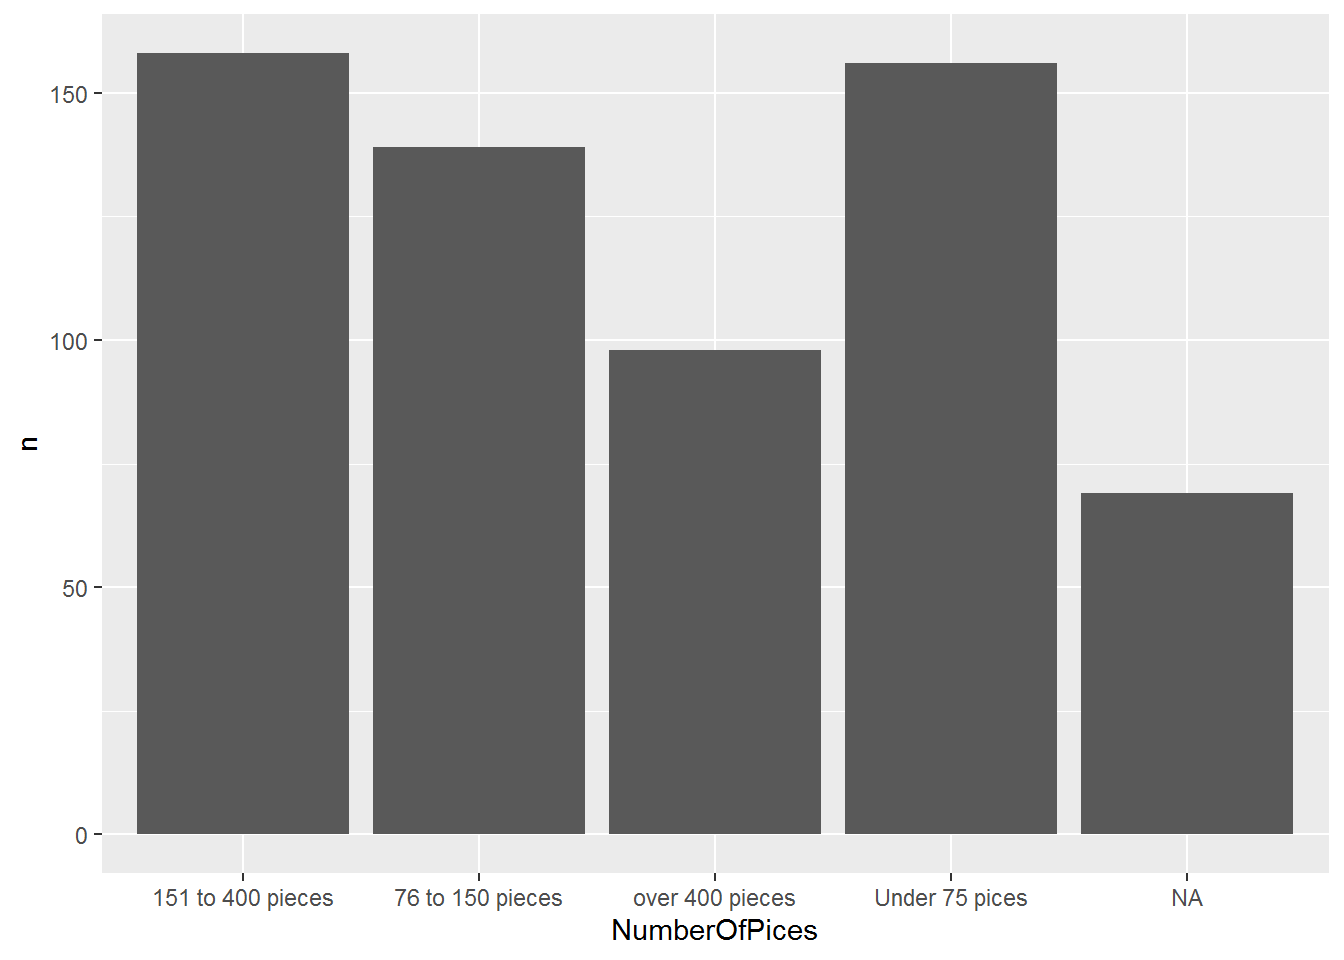
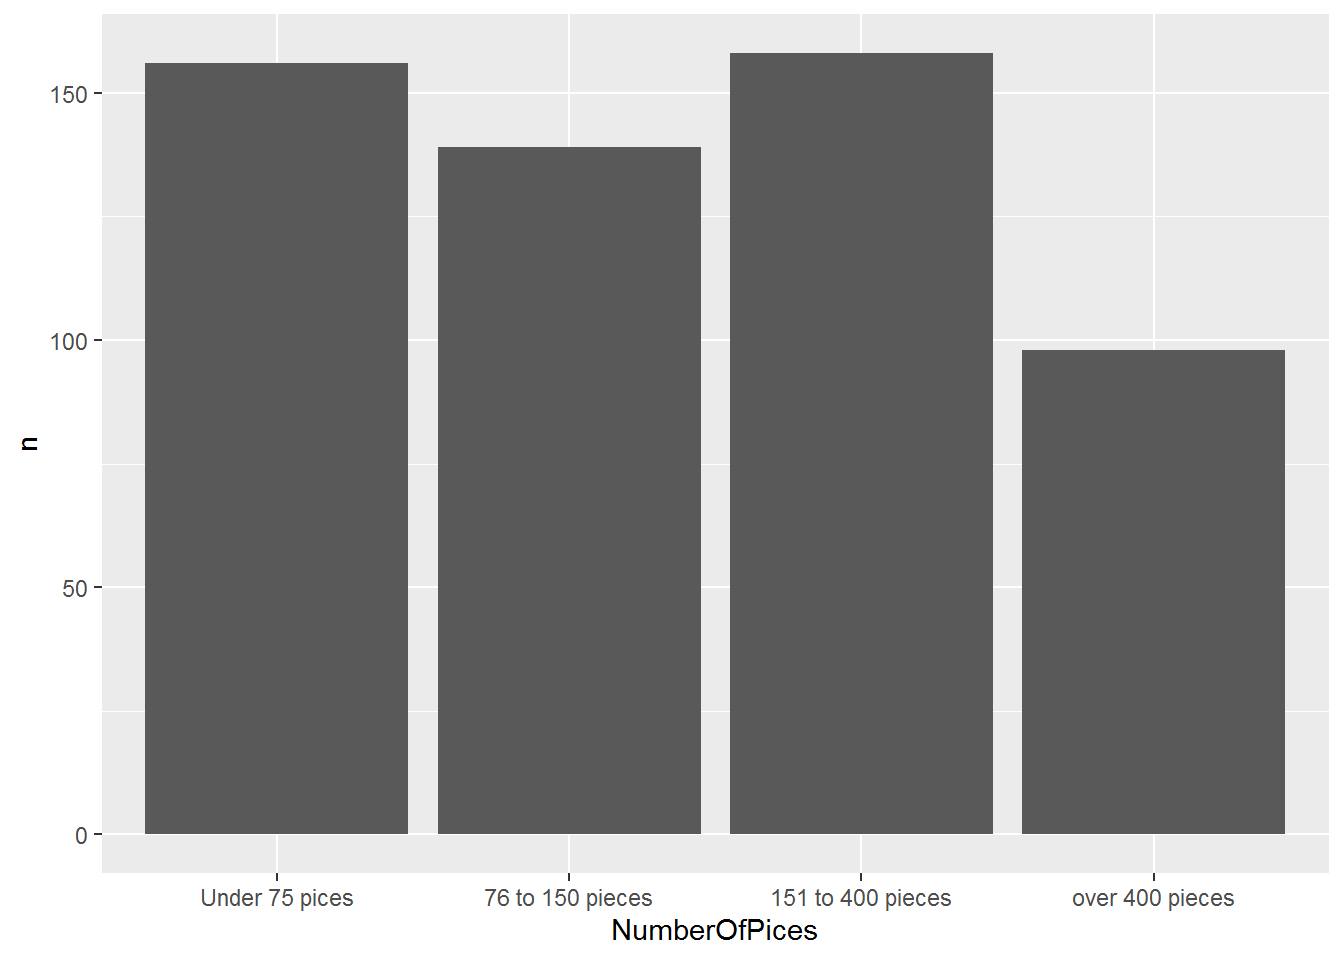
klo

diff --git a/content/post/2021-06-02-assignment-a03-tidyverse/index.html b/content/post/2021-06-02-assignment-a03-tidyverse/index.html
@@ -11,7 +11,6 @@ tags: []
 
 
 <p>Use the attached file lego_sales.csv and complete the following tasks using tidyverse. Submit the RmD file and link to the post on your website.</p>
-<p>……………….</p>
 <div id="what-are-the-three-most-common-first-names-of-customers" class="section level2">
 <h2>1- What are the three most common first names of customers?</h2>
 <pre class="r"><code>lego %&gt;%
@@ -239,8 +238,13 @@ first, show the percentage of each catagories using bar and pie charts.</p>
         pieces &lt;= 75 ~ &quot;Under 75 pices&quot; ,
         between(pieces, 76, 150) ~ &quot;76 to 150 pieces&quot; ,
         between(pieces, 151, 400) ~ &quot;151 to 400 pieces&quot; ,
-        pieces &gt;= 401 ~ &quot;over 400 pieces&quot; ,
-    ))
+        pieces &gt;= 401 ~ &quot;over 400 pieces&quot;)) %&gt;%
+  
+        mutate(NumberOfPices=fct_relevel(NumberOfPices, &quot;Under 75 pices&quot;,
+                                    &quot;76 to 150 pieces&quot; ,
+                                   &quot;151 to 400 pieces&quot; ,
+                                  &quot;over 400 pieces&quot; )) %&gt;%
+                                   drop_na()
 
 
 
@@ -257,20 +261,23 @@ plot_ &lt;- lego_piece_price %&gt;%
 ggplot(plot_, aes(NumberOfPices, n))+
   geom_col()</code></pre>
 <p><img src="{{< blogdown/postref >}}index_files/figure-html/unnamed-chunk-11-1.png" width="672" /></p>
-<pre class="r"><code>labels=c(lego_piece_price$NumberOfPices)
+<pre class="r"><code>labels=c(&quot;Under 75 pices&quot;,&quot;76 to 150 pieces&quot;,&quot;151 to 400 pieces&quot;,&quot;over 400 pieces&quot;)
 
 
 pie(plot_$n,labels)</code></pre>
 <p><img src="{{< blogdown/postref >}}index_files/figure-html/unnamed-chunk-11-2.png" width="672" /></p>
 <pre class="r"><code>#</code></pre>
 <p>Now, calculate avarage price of each catagories.</p>
-<pre class="r"><code>lego_piece_price %&gt;%
+<pre class="r"><code>pp &lt;- lego_piece_price %&gt;%
   group_by(NumberOfPices) %&gt;%
-mutate(average_price=mean(us_price))</code></pre>
-<pre><code>## # A tibble: 620 x 4
-## # Groups:   NumberOfPices [5]
+  mutate(average_price=mean(us_price))
+
+
+pp</code></pre>
+<pre><code>## # A tibble: 551 x 4
+## # Groups:   NumberOfPices [4]
 ##    pieces us_price NumberOfPices     average_price
-##     &lt;dbl&gt;    &lt;dbl&gt; &lt;chr&gt;                     &lt;dbl&gt;
+##     &lt;dbl&gt;    &lt;dbl&gt; &lt;fct&gt;                     &lt;dbl&gt;
 ##  1     77     9.99 76 to 150 pieces          14.5 
 ##  2   1093   120.   over 400 pieces           77.5 
 ##  3    333    40.0  151 to 400 pieces         26.8 
@@ -280,10 +287,14 @@ mutate(average_price=mean(us_price))</code></pre>
 ##  7    233    25.0  151 to 400 pieces         26.8 
 ##  8     77     9.99 76 to 150 pieces          14.5 
 ##  9    108     9.99 76 to 150 pieces          14.5 
-## 10     NA   110.   &lt;NA&gt;                      38.1 
-## # ... with 610 more rows</code></pre>
+## 10     13     9.99 Under 75 pices             9.84
+## # ... with 541 more rows</code></pre>
+<pre class="r"><code>ggplot(pp, aes(NumberOfPices, average_price))+
+  geom_col()</code></pre>
+<p><img src="{{< blogdown/postref >}}index_files/figure-html/unnamed-chunk-12-1.png" width="672" /></p>
 </div>
 <div id="add-one-element-to-the-plot-from-the-previous-exercise-to-change-the-look-of-the-plot-without-changing-the-underlying-data.-for-example-you-can-change-the-theme-background-color-add-annotations-etc.-state-the-change-youre-making-and-display-the-updated-visualization.-we-encourage-you-to-be-creative" class="section level2">
 <h2>9- Add one element to the plot from the previous exercise to change the look of the plot without changing the underlying data. For example, you can change the theme, background color, add annotations, etc. State the change you’re making and display the updated visualization. We encourage you to be creative!</h2>
 <pre class="r"><code>write_csv(lego_age_group, &quot;lego_age_group&quot;)</code></pre>
+<p>…………………</p>
 </div>
